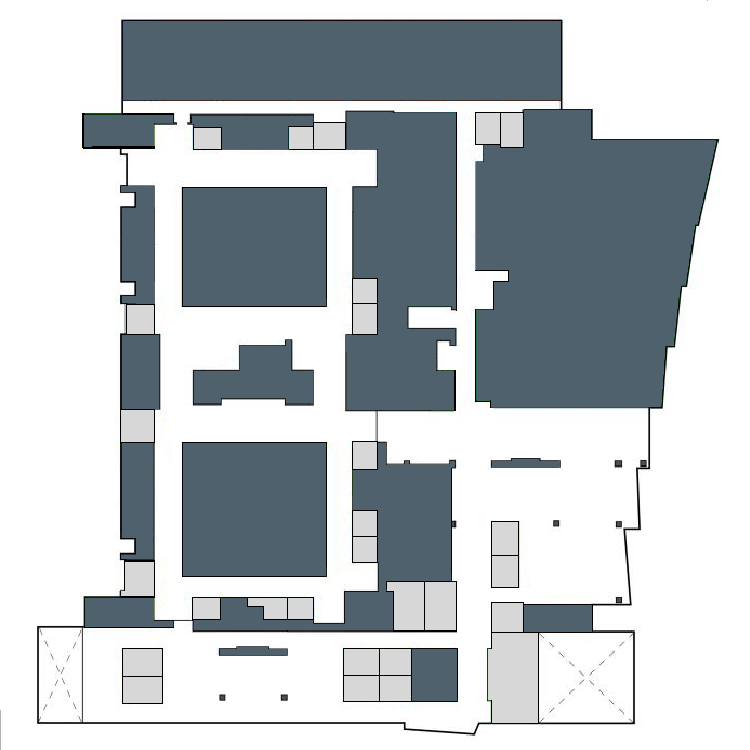
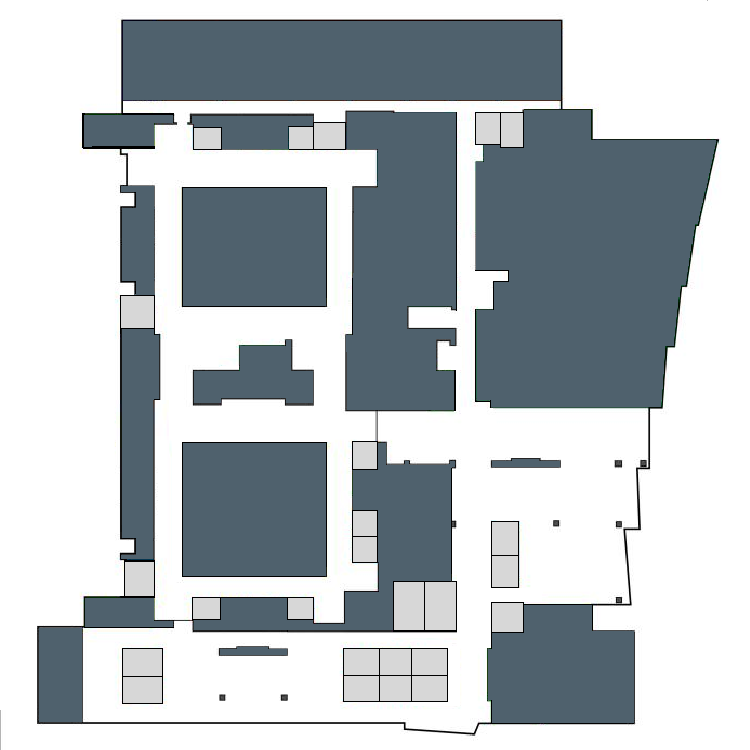
Updated Floor 3 Tables, Debugging
Updated all the floor 3 tables and continuted with debugging selecting and leaving tables

diff --git a/FLOSSDriver.java b/FLOSSDriver.java
@@ -91,6 +91,8 @@ public class FLOSSDriver {
       displaySidePanel();                          //Add all the buttons and options
       initializeClasses();                         //Initialize the class list
       initializeSidePanel();                       //Initialize the side panel
+      initializeAddTable();
+      initializeRemoveUserTable();
       initializeSearchFeature();                   //Initialize the search feature for the class
    
       container.add(fenwickLibrary);         //Add JPanel map to the main display screen 
@@ -168,7 +170,13 @@ public class FLOSSDriver {
          new ActionListener() {
             public void actionPerformed(ActionEvent e) {
                enableButtons();
-               enableSearch();   
+               enableSearch();
+               if(fenwickLibrary.getFloorNumber() == 1) 
+                  floor1.setEnabled(false);
+               else if(fenwickLibrary.getFloorNumber() == 2) 
+                  floor2.setEnabled(false);
+               else if(fenwickLibrary.getFloorNumber() == 3) 
+                  floor3.setEnabled(false);
                fenwickLibrary.repaint();
             } });  
       sidePanel.add(floor1);      //Add button to the JFrame
@@ -285,13 +293,15 @@ public class FLOSSDriver {
       courseNumbers.setBounds(175, 320, 75, 25);
       sidePanel.add(courseNumbers);
       messageLabel = new JLabel("User Description:");
-   
       messageLabel.setBounds(50, 445, 200, 25);
       sidePanel.add(messageLabel);
       message = new JTextField(20);
       message.setBounds(50, 470, 200, 25);
       message.setDocument(new JTextFieldLimit(140));
       sidePanel.add(message);
+   }
+   
+   public static void initializeAddTable() {
       addTable = new JButton("Finish");
       addTable.setBounds(50, 500, 200, 25);
       addTable.addActionListener(
@@ -319,6 +329,9 @@ public class FLOSSDriver {
             } });  
       sidePanel.add(addTable);
       displayCourseOptions(false);
+   }
+   
+   public static void initializeRemoveUserTable() {
       removeUserTable = new JButton("Leave Table");
       removeUserTable.setBounds(50, 750, 200, 25);
       removeUserTable.addActionListener(
@@ -333,6 +346,8 @@ public class FLOSSDriver {
                }
                fenwickLibrary.setUserTable(new Table());
                user.setOccupyTable();
+               fenwickLibrary.resetMessages();
+               fenwickLibrary.setTableSelected(false);
                fenwickLibrary.repaint();
                removeUserTable.setVisible(false);
             } });  
@@ -340,6 +355,56 @@ public class FLOSSDriver {
       removeUserTable.setVisible(false);
    }
 
+      //Initialize the option to leave the table you are sitting at and choose another
+   public static void initializeLeaveTable() {
+      leaveContainer = new JPanel();
+      leaveContainer.setLayout(null);
+      yes = new JButton("YES");
+      yes.setBounds(50, 75, 75, 25); 
+      yes.addActionListener(
+         new ActionListener() {
+            public void actionPerformed(ActionEvent e) {
+               fenwickLibrary.getUserTable().removeStudent(user);
+               System.out.println(fenwickLibrary.getUserTable().getNumStudents());
+               if(fenwickLibrary.getUserTable().getNumStudents() == 0) {
+                  fenwickLibrary.getUserTable().setCourse(new Class());
+                  fenwickLibrary.getUserTable().setMessage("");
+                  fenwickLibrary.getUserTable().setOccupied();
+               }
+               fenwickLibrary.getSelectedTable().addStudent(user);
+               if(!fenwickLibrary.getSelectedTable().getOccupied()) {
+                  String course = (String)courseSubjects.getSelectedItem();
+                  String number = (String)courseNumbers.getSelectedItem();
+                  fenwickLibrary.getSelectedTable().setCourse(findClass(course, number));
+                  courseSubjects.setSelectedIndex(0);
+                  fenwickLibrary.getSelectedTable().setMessage(message.getText().toString());
+                  message.setText("");
+                  fenwickLibrary.getSelectedTable().setOccupied();
+                  displayCourseOptions(false);
+               }
+               fenwickLibrary.setUserTable(fenwickLibrary.getSelectedTable());
+               fenwickLibrary.setTableSelected(false);
+               fenwickLibrary.resetMessages();
+               removeUserTable.setVisible(true);
+               leaveTable.setVisible(false);
+               display.setEnabled(true);
+               fenwickLibrary.repaint();
+            } });        
+      no = new JButton("NO");
+      no.setBounds(175, 75, 75, 25);  
+      no.addActionListener(
+         new ActionListener() {
+            public void actionPerformed(ActionEvent e) {
+               leaveTable.setVisible(false);
+               display.setEnabled(true);
+            } });            
+      leaveMessage = new JLabel("<html>Would you like to leave the table you are currenlty sitting at and move to another?</html>");
+      leaveMessage.setBounds(25, 25, 250, 35);   
+      leaveContainer.add(yes);
+      leaveContainer.add(no);
+      leaveContainer.add(leaveMessage);
+      leaveTable.setContentPane(leaveContainer);
+   }
    
    //Initialize the search features for the side panel
    public static void initializeSearchFeature() {
@@ -386,13 +451,19 @@ public class FLOSSDriver {
    public static void displayStudentName(ArrayList<Student> names) {
       if(names.size() == 1) {
          tableStudentName1.setText(names.get(0).getFirstName() + " " + names.get(0).getLastName() + " (" + names.get(0).getMasonEmail() + ")");
+         tableStudentName2.setText("");
+         tableStudentName3.setText("");
+         tableStudentName4.setText("");
       } else if(names.size() == 2) {
          tableStudentName1.setText(names.get(0).getFirstName() + " " + names.get(0).getLastName() + " (" + names.get(0).getMasonEmail() + ")");
          tableStudentName2.setText(names.get(1).getFirstName() + " " + names.get(1).getLastName() + " (" + names.get(1).getMasonEmail() + ")");
+         tableStudentName3.setText("");
+         tableStudentName4.setText("");
       } else if(names.size() == 3) {
          tableStudentName1.setText(names.get(0).getFirstName() + " " + names.get(0).getLastName() + " (" + names.get(0).getMasonEmail() + ")");
          tableStudentName2.setText(names.get(1).getFirstName() + " " + names.get(1).getLastName() + " (" + names.get(1).getMasonEmail() + ")");
          tableStudentName3.setText(names.get(2).getFirstName() + " " + names.get(2).getLastName() + " (" + names.get(2).getMasonEmail() + ")");
+         tableStudentName4.setText("");
       } else if(names.size() == 4) {
          tableStudentName1.setText(names.get(0).getFirstName() + " " + names.get(0).getLastName() + " (" + names.get(0).getMasonEmail() + ")");
          tableStudentName2.setText(names.get(1).getFirstName() + " " + names.get(1).getLastName() + " (" + names.get(1).getMasonEmail() + ")");
@@ -467,57 +538,6 @@ public class FLOSSDriver {
    public static void showJoinTable(boolean show) {
       joinTable.setVisible(show);
    }
-   
-   //Initialize the option to leave the table you are sitting at and choose another
-   public static void initializeLeaveTable() {
-      leaveContainer = new JPanel();
-      leaveContainer.setLayout(null);
-      yes = new JButton("YES");
-      yes.setBounds(50, 75, 75, 25); 
-      yes.addActionListener(
-         new ActionListener() {
-            public void actionPerformed(ActionEvent e) {
-               fenwickLibrary.getUserTable().removeStudent(user);
-               System.out.println(fenwickLibrary.getUserTable().getNumStudents());
-               if(fenwickLibrary.getUserTable().getNumStudents() == 0) {
-                  fenwickLibrary.getUserTable().setCourse(new Class());
-                  fenwickLibrary.getUserTable().setMessage("");
-                  fenwickLibrary.getUserTable().setOccupied();
-               }
-               fenwickLibrary.getSelectedTable().addStudent(user);
-               if(!fenwickLibrary.getSelectedTable().getOccupied()) {
-                  String course = (String)courseSubjects.getSelectedItem();
-                  String number = (String)courseNumbers.getSelectedItem();
-                  fenwickLibrary.getSelectedTable().setCourse(findClass(course, number));
-                  courseSubjects.setSelectedIndex(0);
-                  fenwickLibrary.getSelectedTable().setMessage(message.getText().toString());
-                  message.setText("");
-                  fenwickLibrary.getSelectedTable().setOccupied();
-                  displayCourseOptions(false);
-               }
-               fenwickLibrary.setUserTable(fenwickLibrary.getSelectedTable());
-               fenwickLibrary.setTableSelected(false);
-               removeUserTable.setVisible(true);
-               leaveTable.setVisible(false);
-               display.setEnabled(true);
-               fenwickLibrary.repaint();
-            } });        
-      no = new JButton("NO");
-      no.setBounds(175, 75, 75, 25);  
-      no.addActionListener(
-         new ActionListener() {
-            public void actionPerformed(ActionEvent e) {
-               leaveTable.setVisible(false);
-               display.setEnabled(true);
-            } });            
-      leaveMessage = new JLabel("<html>Would you like to leave the table you are currenlty sitting at and move to another?</html>");
-      leaveMessage.setBounds(25, 25, 250, 35);   
-      leaveContainer.add(yes);
-      leaveContainer.add(no);
-      leaveContainer.add(leaveMessage);
-      leaveTable.setContentPane(leaveContainer);
-   }
-
    
    //Initialize the classes that are provided from the text file
    public static void initializeClasses() throws IOException {

diff --git a/StudySystemMap.java b/StudySystemMap.java
@@ -80,7 +80,7 @@ public class StudySystemMap extends JPanel implements MouseListener, MouseMotion
 
    //Basic constructor for the StudySystemMap w/ no parameters
    public StudySystemMap() throws IOException {
-      floorNumber = 1;                    //Initialize the floor number
+      floorNumber = 3;                    //Initialize the floor number
       initializeTables();                 //Initialize the table arrays
       addMouseListener( this );           //Initalize mouseListener
       addMouseMotionListener( this );     //Initalize mouseMotionListener
@@ -107,6 +107,11 @@ public class StudySystemMap extends JPanel implements MouseListener, MouseMotion
       floor1Tables.get(7).addStudent(new Student("Jack", "Stick", "jstick2", "pass", "Mathematics", 12416781));
       floor1Tables.get(7).setCourse(new Class("Accounting", "ACCT", 203, "Survey of Accounting"));
       floor1Tables.get(7).setMessage("Come study with us");
+   }
+   
+    //Get the floor number that the user is currently viewing
+   public int getFloorNumber() {
+      return this.floorNumber;
    }
    
    //Set the floor number that the user is currently viewing
@@ -150,6 +155,8 @@ public class StudySystemMap extends JPanel implements MouseListener, MouseMotion
       Table table = null;
       int startRow, startCol, endRow, endCol;
       if(button == MouseEvent.BUTTON1) {
+         System.out.println(mouseX);
+         System.out.println(mouseY);
          if(floorNumber == 1) {
             for(int ind1 = 0; ind1 < floor1Tables.size(); ind1++) {
                table = floor1Tables.get(ind1);  //Create a temporary table
@@ -168,9 +175,9 @@ public class StudySystemMap extends JPanel implements MouseListener, MouseMotion
                      FLOSSDriver.displayCourseOptions(false);
                      selectedTable = table;
                      tableSelected = true;
-                     FLOSSDriver.displayStudentName(table.getStudents());
-                     FLOSSDriver.showAddFriend(table, table.getNumStudents());
-                     FLOSSDriver.displayMessage(table.getMessage());
+                     FLOSSDriver.displayStudentName(selectedTable.getStudents());
+                     FLOSSDriver.showAddFriend(selectedTable, selectedTable.getNumStudents());
+                     FLOSSDriver.displayMessage(selectedTable.getMessage());
                      if(table.getCourse().getNumber() != 0)
                         FLOSSDriver.displayTableCourse(table.getCourse());
                      else
